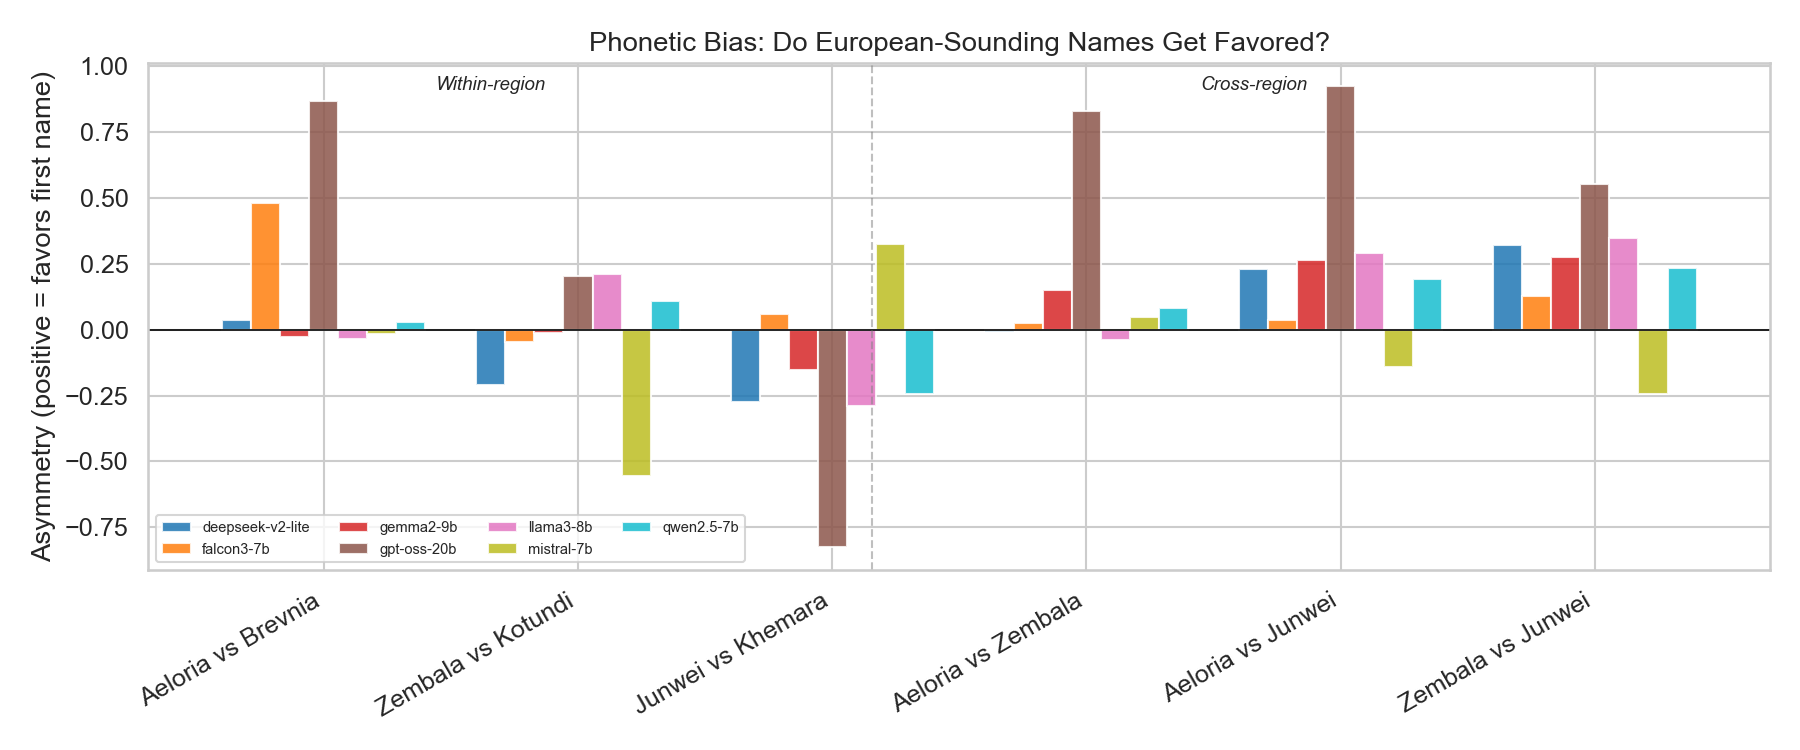
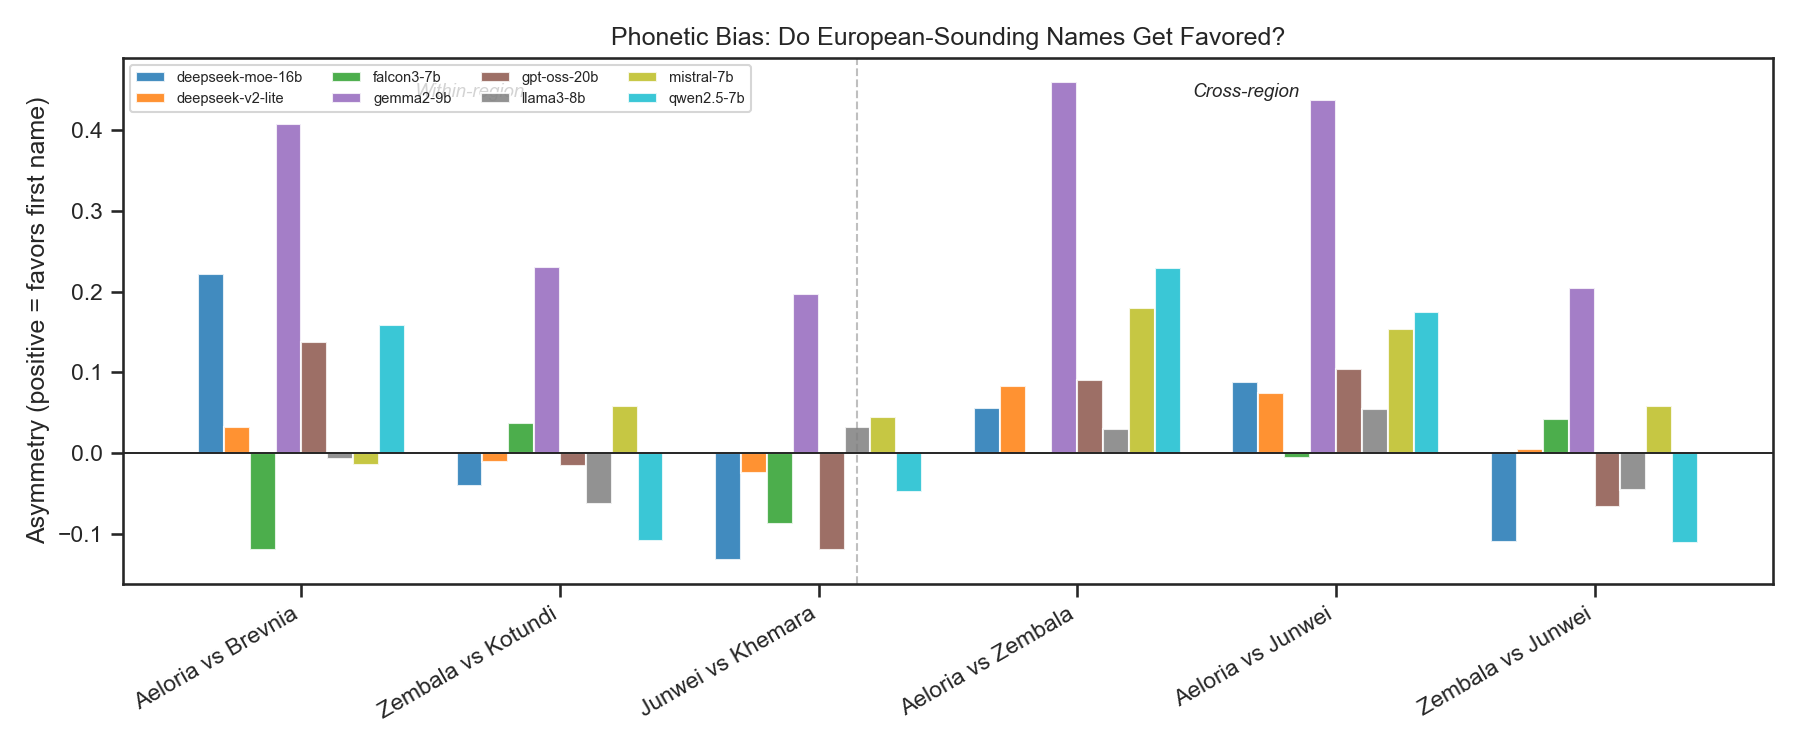
Redesign heatmap and western vs chinese plots, add deepseek-moe-16b cloze data
Replace dense heatmap with dot strip plot and bar chart with forest plot.
Clean up style (ticks theme, despine, muted palette). Delete archived plot
directories. Add deepseek-moe-16b cloze results (8 models now).

diff --git a/country_bias_pilot/visualize.py b/country_bias_pilot/visualize.py
@@ -14,15 +14,20 @@ from config import PLOTS_DIR, CONTROL_PAIRS, PHONETIC_PAIRS, FICTIONAL_PAIRS
 
 logger = logging.getLogger(__name__)
 
-sns.set_theme(style="whitegrid", font_scale=1.1)
+sns.set_theme(style="ticks", font_scale=1.0)
 
 
 def _pair_label(row) -> str:
     return f"{row['country_1']} vs {row['country_2']}"
 
 
-def plot_heatmap(asym_dfs: dict[str, pd.DataFrame]):
-    """Heatmap: asymmetry by pair × model.
+_WESTERN = ["llama3-8b", "mistral-7b", "falcon3-7b", "gemma2-9b", "gpt-oss-20b"]
+_CHINESE = ["qwen2.5-7b", "deepseek-v2-lite", "deepseek-moe-16b"]
+_CLR_W, _CLR_C = "#4878CF", "#D65F5F"
+
+
+def plot_heatmap(asym_dfs: dict[str, pd.DataFrame], suffix: str = "", title_extra: str = ""):
+    """Dot strip plot: asymmetry by pair, one dot per model.
 
     asym_dfs: {model_name: asymmetry DataFrame from compute_asymmetry()}
     """
@@ -30,41 +35,64 @@ def plot_heatmap(asym_dfs: dict[str, pd.DataFrame]):
     for model, df in asym_dfs.items():
         agg = df.groupby(["country_1", "country_2"])["asymmetry"].mean().reset_index()
         agg["model"] = model
+        agg["group"] = "Western" if model in _WESTERN else "Chinese"
         records.append(agg)
     combined = pd.concat(records, ignore_index=True)
     combined["pair"] = combined.apply(_pair_label, axis=1)
 
-    pivot = combined.pivot_table(index="pair", columns="model", values="asymmetry")
-
-    # Separate control, phonetic, and real for ordering
+    # Order: control, phonetic, real — with gaps between sections
     ctrl_set = {f"{a} vs {b}" for a, b in CONTROL_PAIRS}
     phon_set = {f"{a} vs {b}" for a, b in PHONETIC_PAIRS}
-    ctrl_labels = [p for p in pivot.index if p in ctrl_set]
-    phon_labels = [p for p in pivot.index if p in phon_set]
-    real_labels = [p for p in pivot.index if p not in ctrl_set and p not in phon_set]
-    pivot = pivot.reindex(ctrl_labels + phon_labels + real_labels)
+    all_pairs = sorted(combined["pair"].unique())
+    ctrl_labels = [p for p in all_pairs if p in ctrl_set]
+    phon_labels = [p for p in all_pairs if p in phon_set]
+    real_labels = [p for p in all_pairs if p not in ctrl_set and p not in phon_set]
 
-    fig, ax = plt.subplots(figsize=(max(8, len(asym_dfs) * 2.5), max(10, len(pivot) * 0.5)))
-    vmax = max(0.3, pivot.abs().max().max())
-    sns.heatmap(
-        pivot, annot=True, fmt=".3f", center=0, cmap="RdBu_r",
-        vmin=-vmax, vmax=vmax, linewidths=0.5, ax=ax,
-    )
-    ax.set_title("Country Preference Asymmetry by Pair × Model")
-    ax.set_ylabel("")
-    ax.set_xlabel("")
-
-    # Draw lines between control/phonetic/real sections
+    # Build y-positions with gaps between sections
+    y_positions = {}
+    y = 0
+    for label in ctrl_labels:
+        y_positions[label] = y
+        y += 1
     if ctrl_labels and (phon_labels or real_labels):
-        ax.axhline(y=len(ctrl_labels), color="black", linewidth=2)
+        y += 0.8  # gap
+    for label in phon_labels:
+        y_positions[label] = y
+        y += 1
     if phon_labels and real_labels:
-        ax.axhline(y=len(ctrl_labels) + len(phon_labels), color="black", linewidth=2)
+        y += 0.8  # gap
+    for label in real_labels:
+        y_positions[label] = y
+        y += 1
 
+    combined["y"] = combined["pair"].map(y_positions)
+
+    fig, ax = plt.subplots(figsize=(10, max(8, y * 0.45)))
+
+    for group, color, marker in [("Western", _CLR_W, "o"), ("Chinese", _CLR_C, "^")]:
+        subset = combined[combined["group"] == group]
+        ax.scatter(
+            subset["asymmetry"], subset["y"],
+            c=color, marker=marker, s=35, alpha=0.65,
+            label=f"{group} models", zorder=3,
+        )
+
+    ax.axvline(0, color="black", linewidth=0.8, zorder=1)
+    ax.set_yticks(list(y_positions.values()))
+    ax.set_yticklabels(list(y_positions.keys()), fontsize=9)
+    ax.invert_yaxis()
+    ax.set_xlabel("Asymmetry (positive = favors Country 1)")
+    ax.set_title(f"Country Preference Asymmetry{title_extra}", fontsize=12, pad=10)
+    ax.legend(fontsize=8, loc="lower right")
+    ax.grid(axis="x", alpha=0.3, linewidth=0.5)
+    ax.tick_params(axis="y", length=0)
+    sns.despine(ax=ax, left=True)
     plt.tight_layout()
-    path = PLOTS_DIR / "heatmap_pair_model.png"
+
+    path = PLOTS_DIR / f"heatmap_pair_model{suffix}.png"
     fig.savefig(path, dpi=150)
     plt.close(fig)
-    logger.info(f"Saved heatmap to {path}")
+    logger.info(f"Saved dot strip plot to {path}")
 
 
 def plot_bar_chart(asym_dfs: dict[str, pd.DataFrame]):
@@ -238,19 +266,15 @@ def plot_phonetic_bias(asym_dfs: dict[str, pd.DataFrame]):
     logger.info(f"Saved phonetic bias chart to {path}")
 
 
-def plot_western_vs_chinese(asym_dfs: dict[str, pd.DataFrame]):
-    """Compare Western vs Chinese model biases for real pairs."""
-    western = ["llama3-8b", "mistral-7b", "falcon3-7b", "gemma2-9b", "gpt-oss-20b"]
-    chinese = ["qwen2.5-7b", "deepseek-v2-lite", "deepseek-moe-16b"]
-
+def plot_western_vs_chinese(asym_dfs: dict[str, pd.DataFrame], suffix: str = "", title_extra: str = ""):
+    """Forest plot: Western vs Chinese model group means for real pairs."""
     records = []
     non_real = {tuple(p) for p in CONTROL_PAIRS + PHONETIC_PAIRS}
     for model, df in asym_dfs.items():
         real = df[~df.apply(lambda r: (r["country_1"], r["country_2"]) in non_real, axis=1)]
         agg = real.groupby(["country_1", "country_2"])["asymmetry"].mean().reset_index()
         agg["model"] = model
-        group = "Western" if model in western else "Chinese" if model in chinese else "Other"
-        agg["group"] = group
+        agg["group"] = "Western" if model in _WESTERN else "Chinese" if model in _CHINESE else "Other"
         records.append(agg)
     combined = pd.concat(records, ignore_index=True)
     combined["pair"] = combined.apply(_pair_label, axis=1)
@@ -258,30 +282,61 @@ def plot_western_vs_chinese(asym_dfs: dict[str, pd.DataFrame]):
     # Aggregate by group
     group_agg = combined.groupby(["pair", "group"])["asymmetry"].agg(["mean", "std"]).reset_index()
 
-    fig, ax = plt.subplots(figsize=(14, 6))
-    pairs_order = sorted(group_agg["pair"].unique())
-    x = np.arange(len(pairs_order))
+    # Order pairs by absolute difference between Western and Chinese means
+    pivot_means = group_agg.pivot(index="pair", columns="group", values="mean").fillna(0)
+    if "Western" in pivot_means.columns and "Chinese" in pivot_means.columns:
+        order_key = (pivot_means["Western"] - pivot_means["Chinese"]).abs()
+    else:
+        order_key = pivot_means.iloc[:, 0].abs()
+    pairs_order = order_key.sort_values(ascending=True).index.tolist()
 
-    for i, (group, color) in enumerate([("Western", "#2166ac"), ("Chinese", "#b2182b")]):
+    fig, ax = plt.subplots(figsize=(10, max(5, len(pairs_order) * 0.5)))
+    y_offset = 0.12  # vertical offset so dots don't overlap
+
+    for group, color, marker, dy in [
+        ("Western", _CLR_W, "o", -y_offset),
+        ("Chinese", _CLR_C, "^", y_offset),
+    ]:
         gdata = group_agg[group_agg["group"] == group].set_index("pair").reindex(pairs_order)
-        ax.bar(x + i * 0.35, gdata["mean"], 0.35, yerr=gdata["std"], label=group,
-               color=color, alpha=0.8, capsize=3)
+        y = np.arange(len(pairs_order)) + dy
+        ax.errorbar(
+            gdata["mean"], y,
+            xerr=gdata["std"], fmt="none",
+            ecolor=color, elinewidth=1.2, capsize=3, capthick=1.2, alpha=0.6, zorder=2,
+        )
+        ax.scatter(
+            gdata["mean"], y,
+            c=color, marker=marker, s=50, label=f"{group} models",
+            zorder=3, edgecolors="white", linewidths=0.5,
+        )
+        # Connect Western and Chinese dots for each pair
+        for i, pair in enumerate(pairs_order):
+            w_val = group_agg[(group_agg["pair"] == pair) & (group_agg["group"] == "Western")]["mean"]
+            c_val = group_agg[(group_agg["pair"] == pair) & (group_agg["group"] == "Chinese")]["mean"]
+            if not w_val.empty and not c_val.empty:
+                ax.plot(
+                    [w_val.values[0], c_val.values[0]],
+                    [i - y_offset, i + y_offset],
+                    color="gray", linewidth=0.6, alpha=0.4, zorder=1,
+                )
 
-    ax.set_xticks(x + 0.175)
-    ax.set_xticklabels(pairs_order, rotation=45, ha="right")
-    ax.axhline(0, color="black", linewidth=0.8)
-    ax.set_ylabel("Mean Asymmetry (positive = favors Country 1)")
-    ax.set_title("Western vs Chinese Model Bias Comparison (Real Pairs)")
-    ax.legend()
+    ax.axvline(0, color="black", linewidth=0.8, zorder=1)
+    ax.set_yticks(np.arange(len(pairs_order)))
+    ax.set_yticklabels(pairs_order, fontsize=9)
+    ax.set_xlabel("Mean Asymmetry (positive = favors Country 1)")
+    ax.set_title(f"Western vs Chinese Model Bias{title_extra}", fontsize=12, pad=10)
+    ax.legend(fontsize=8, loc="lower right")
+    ax.tick_params(axis="y", length=0)
+    sns.despine(ax=ax, left=True)
     plt.tight_layout()
 
-    path = PLOTS_DIR / "western_vs_chinese.png"
+    path = PLOTS_DIR / f"western_vs_chinese{suffix}.png"
     fig.savefig(path, dpi=150)
     plt.close(fig)
-    logger.info(f"Saved western vs chinese to {path}")
+    logger.info(f"Saved forest plot to {path}")
 
 
-def plot_control_residuals(asym_dfs: dict[str, pd.DataFrame]):
+def plot_control_residuals(asym_dfs: dict[str, pd.DataFrame], suffix: str = "", title_extra: str = ""):
     """Show control pair residual asymmetries as a validation check."""
     ctrl_set = {tuple(p) for p in CONTROL_PAIRS}
     records = []
@@ -302,12 +357,12 @@ def plot_control_residuals(asym_dfs: dict[str, pd.DataFrame]):
     ax.axhline(0, color="black", linewidth=0.8)
     ax.axhspan(-0.1, 0.1, alpha=0.1, color="green", label="±0.1 target zone")
     ax.set_ylabel("Residual Asymmetry (should be ~0)")
-    ax.set_title("Control Pair Residual Asymmetries (Diagnostic)")
+    ax.set_title(f"Control Pair Residual Asymmetries (Diagnostic){title_extra}")
     ax.set_xticklabels(ax.get_xticklabels(), rotation=30, ha="right")
     ax.legend(fontsize=7, bbox_to_anchor=(1.02, 1), loc="upper left")
     plt.tight_layout()
 
-    path = PLOTS_DIR / "control_residuals.png"
+    path = PLOTS_DIR / f"control_residuals{suffix}.png"
     fig.savefig(path, dpi=150)
     plt.close(fig)
     logger.info(f"Saved control residuals to {path}")
